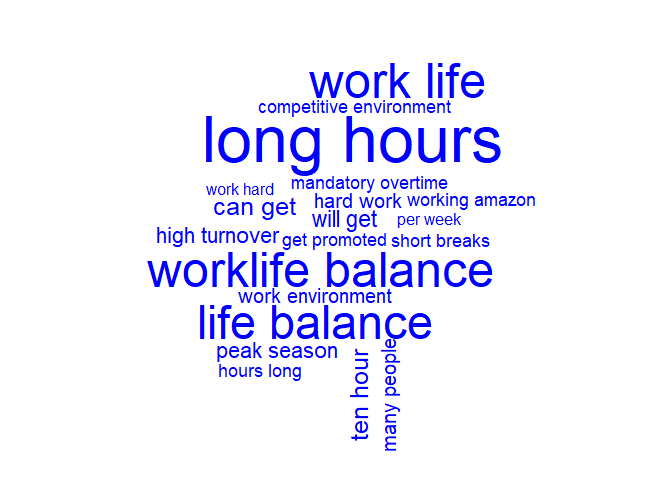
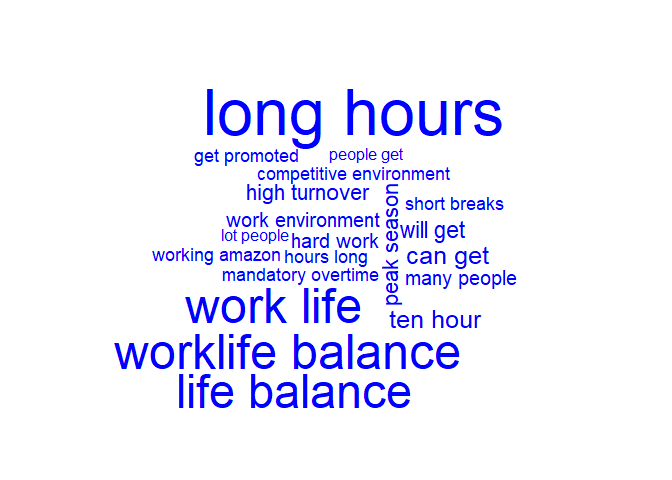
Fix title.

Changed region(s): [[0.1562, 0.125, 0.8125, 0.9375]]

diff --git a/battle_of_tech_giants.md b/battle_of_tech_giants.md
@@ -9,7 +9,7 @@ Mark Blackmore
 -   [Feature extraction & analysis: amzn\_pros](#feature-extraction-analysis-amzn_pros)
 -   [Feature extraction & analysis: amzn\_cons](#feature-extraction-analysis-amzn_cons)
 -   [amzn\_cons dendrogram](#amzn_cons-dendrogram)
--   [word association](#word-association)
+-   [Word association](#word-association)
 -   [Quick review of Google reviews](#quick-review-of-google-reviews)
 -   [Cage match! Amazon vs. Google pro reviews](#cage-match-amazon-vs.-google-pro-reviews)
 -   [Cage match! Amazon vs. Google con reviews](#cage-match-amazon-vs.-google-con-reviews)
@@ -176,10 +176,10 @@ wordcloud(names(amzn_p_freq), amzn_p_freq, max.words = 20, color = "blue")
 ```
 
     ## Warning in wordcloud(names(amzn_p_freq), amzn_p_freq, max.words = 20, color
-    ## = "blue"): good pay could not be fit on page. It will not be plotted.
+    ## = "blue"): people work could not be fit on page. It will not be plotted.
 
     ## Warning in wordcloud(names(amzn_p_freq), amzn_p_freq, max.words = 20, color
-    ## = "blue"): great benefits could not be fit on page. It will not be plotted.
+    ## = "blue"): fast paced could not be fit on page. It will not be plotted.
 
 ![](battle_of_tech_giants_files/figure-markdown_github-ascii_identifiers/unnamed-chunk-9-1.png)
 
@@ -236,7 +236,7 @@ plot(hc)
 
 ![](battle_of_tech_giants_files/figure-markdown_github-ascii_identifiers/unnamed-chunk-11-1.png)
 
-### word association
+### Word association
 
 ``` r
 # Create amzn_p_tdm
